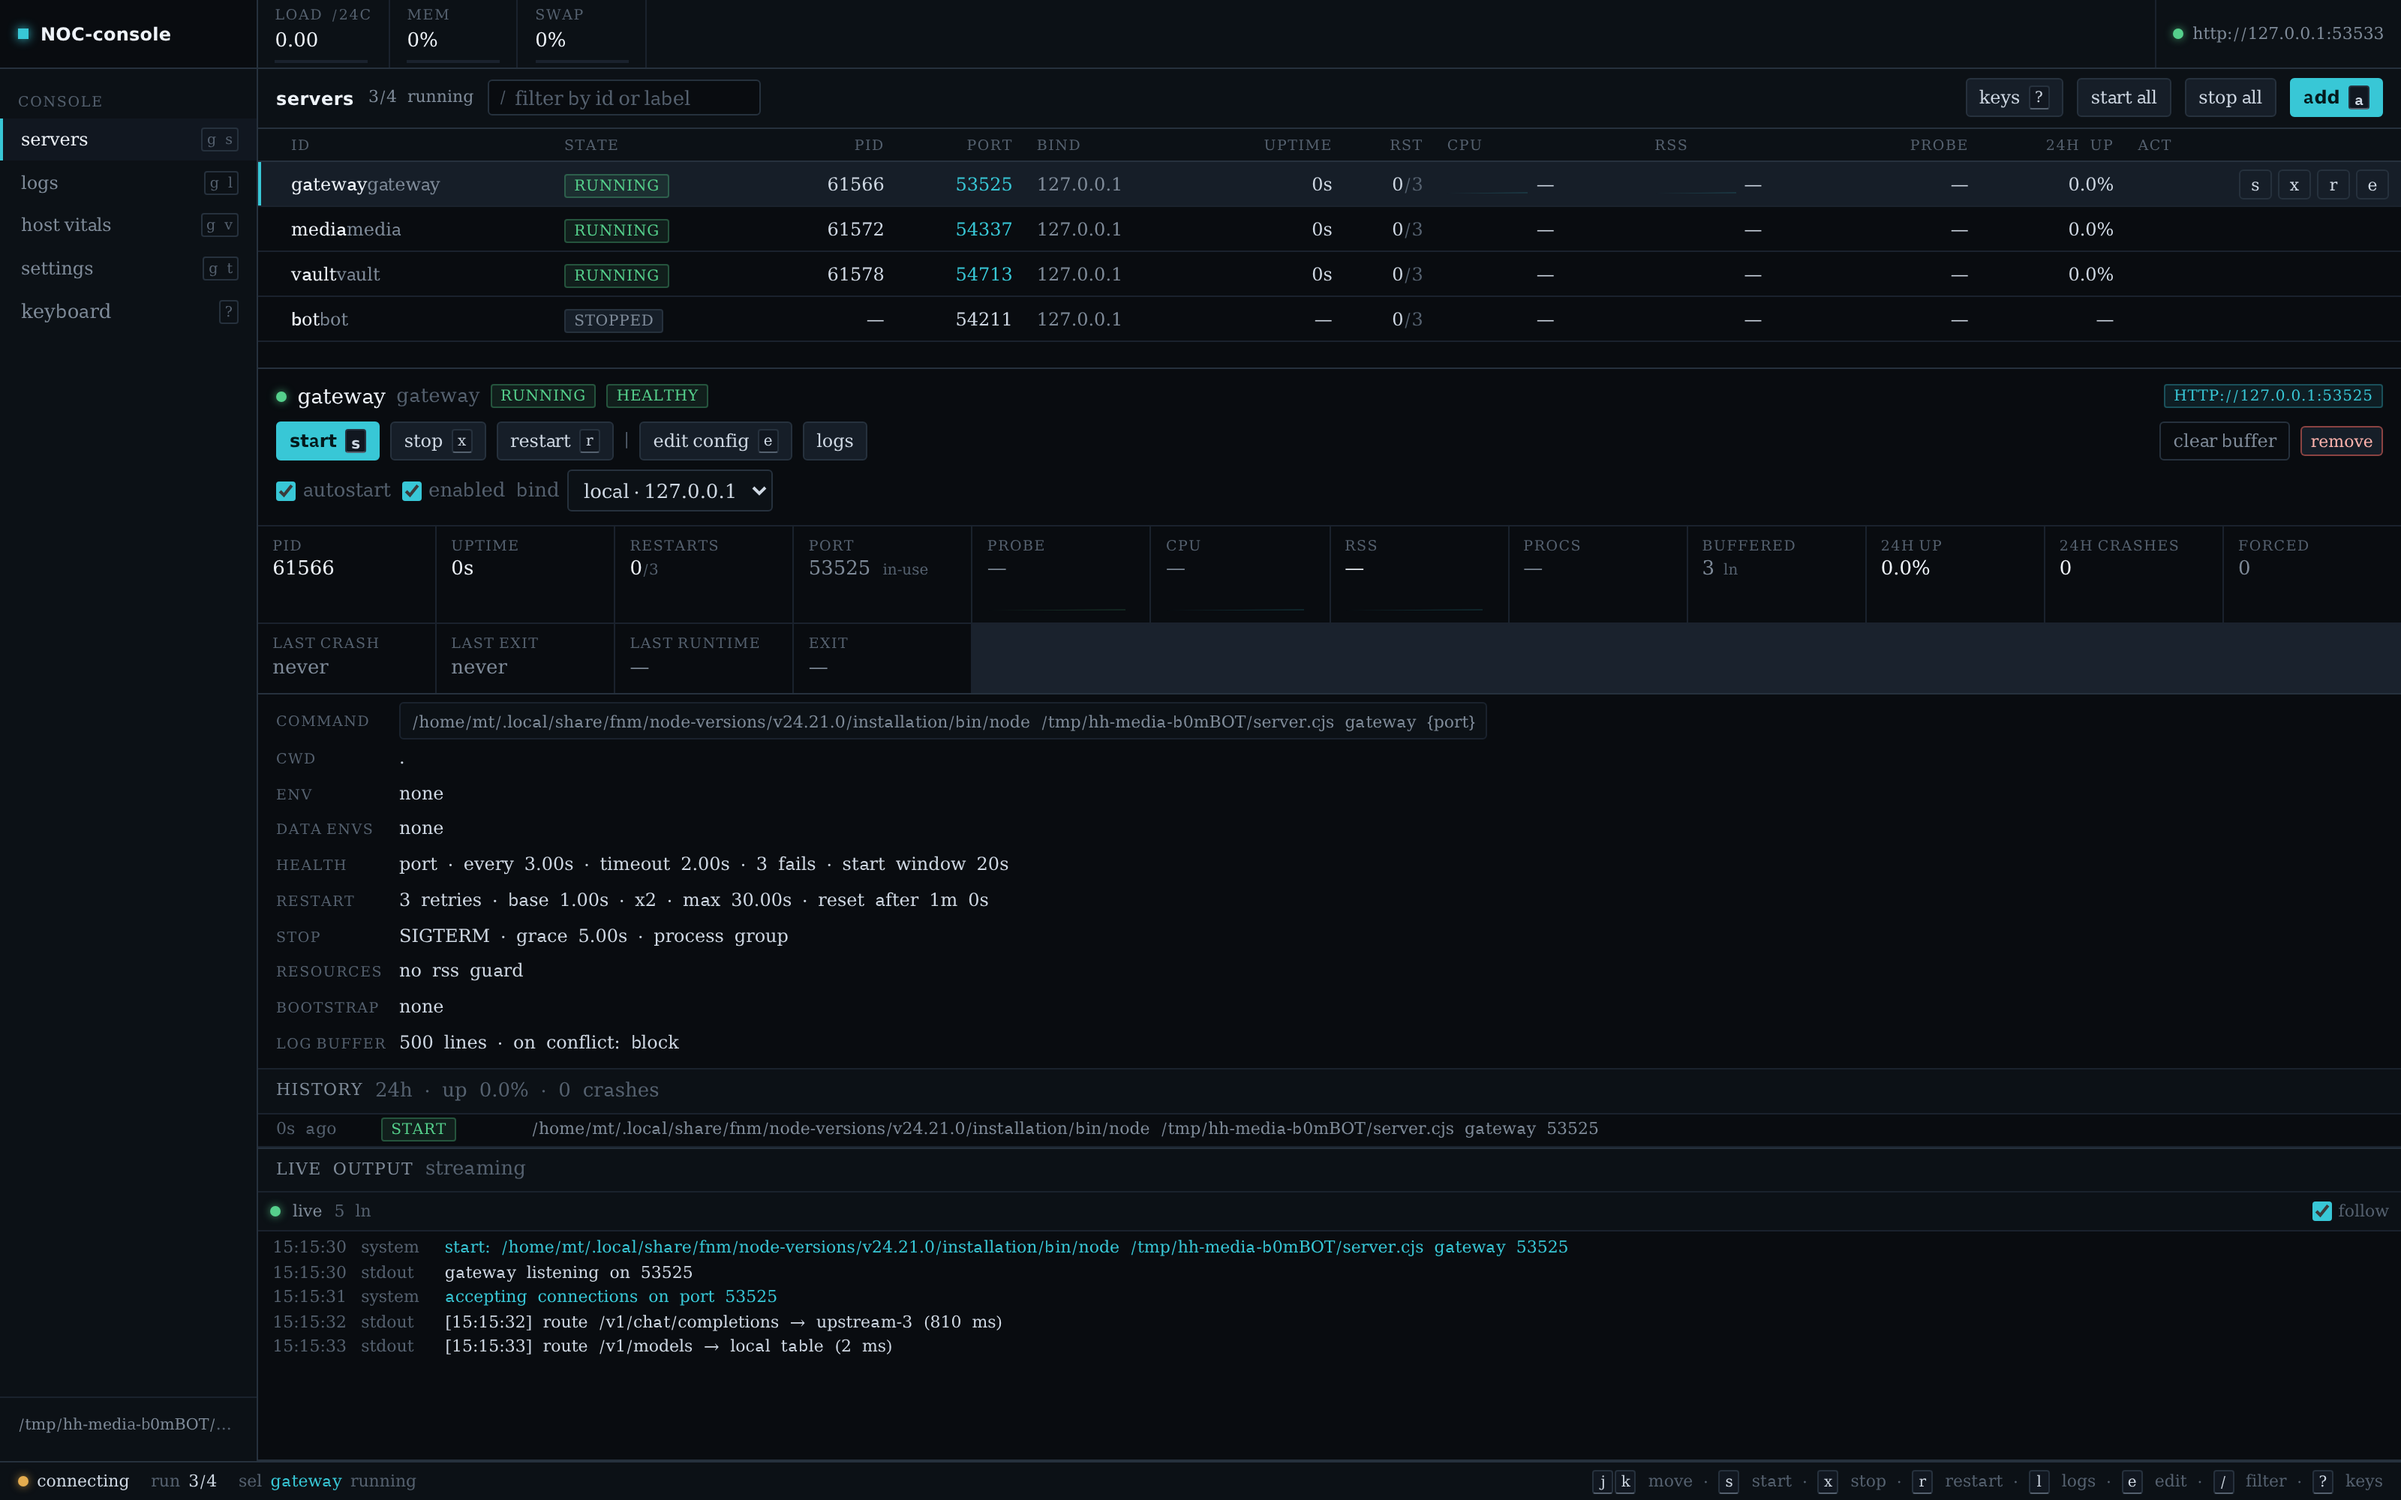
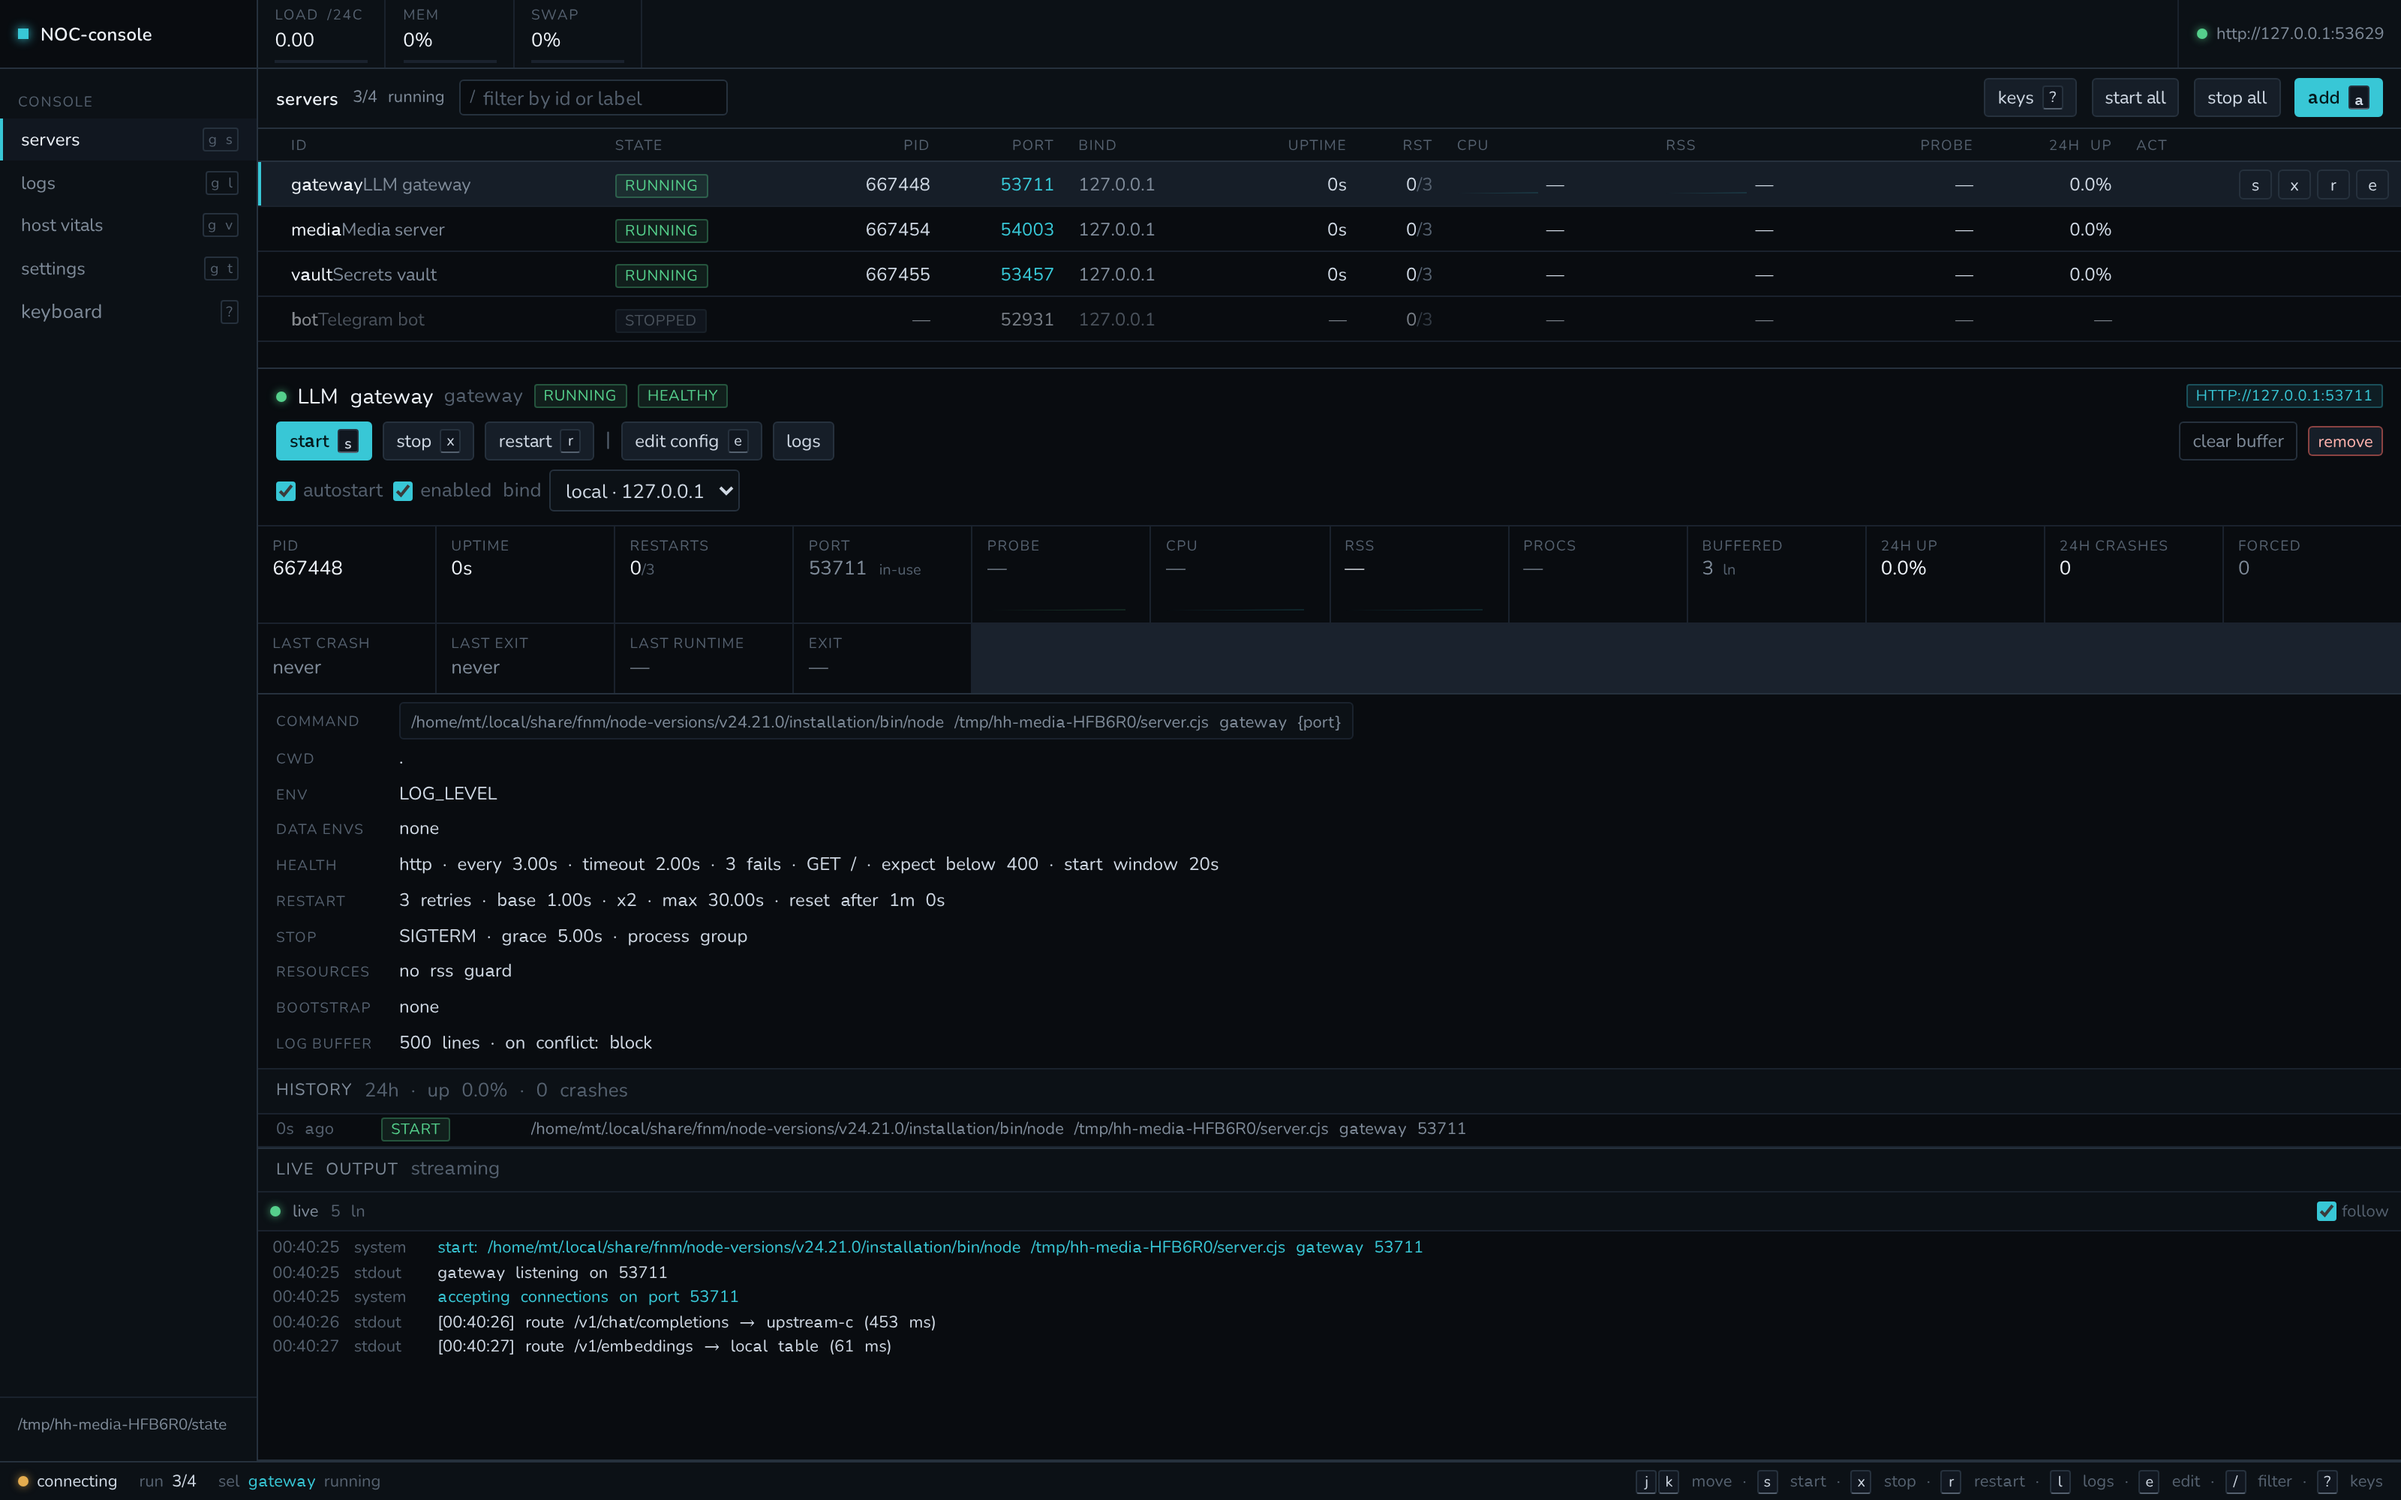
chore(media): a demo stack that reads like one, and a panel that names itself
The capture fixture gave every entry the same label as its id and the same mixed
log lines, so each card showed its name twice and three servers said the same
thing. It is a small home stack now — LLM gateway, media server, secrets vault,
and a disabled Telegram bot — each with its own voice in the log pane and a label
that says what the entry is, so the id plus label pair reads as a pair.

The default panel label was still "Stock UI", a leftover from when the panel was
one of several UIs. A fresh install calls itself home-hosted, and the settings
form test takes the label from the form instead of copying the default into a
fixture, so the next change to it cannot break that test again.

noc-console drift, found by driving it against the current panel: its two
on-port-conflict selects offered only block and warn, so follow and reclaim
rendered blank and touching the field would have changed the policy silently.

diff --git a/uis/stock/test/settings-form.test.ts b/uis/stock/test/settings-form.test.ts
@@ -63,9 +63,13 @@ describe('settings form versus the live config', () => {
    */
   it('shows the mismatch an un-hydrated form would offer to revert', () => {
     const form = createSettingsForm()
+    // Only the auth flag is under test, so the view's label starts from the form's own
+    // default instead of a copy of it that drifts whenever that default changes.
+    const view = controlView(true)
+    view.label = form.control.label
 
-    expect(countLeaves(controlPatch(controlView(true), form) as Record<string, unknown>)).toBe(1)
-    expect(controlPatch(controlView(true), form)).toEqual({ auth: { enabled: false } })
+    expect(countLeaves(controlPatch(view, form) as Record<string, unknown>)).toBe(1)
+    expect(controlPatch(view, form)).toEqual({ auth: { enabled: false } })
   })
 
   it('has nothing pending once the frame has filled the form', () => {

diff --git a/uis/stock/src/components/settings/settingsForm.ts b/uis/stock/src/components/settings/settingsForm.ts
@@ -133,7 +133,7 @@ export function cloneHealth(health: HealthConfig): HealthConfig {
 /** Schema defaults, used only until the first SSE frame fills the form in. */
 export function createSettingsForm(): SettingsForm {
   return {
-    control: { label: 'Stock UI', port: 3999, host: 'local', openBrowser: false, tlsEnabled: false },
+    control: { label: 'home-hosted', port: 3999, host: 'local', openBrowser: false, tlsEnabled: false },
     auth: { enabled: false, sessionTtlMs: 604_800_000, cookieSecure: 'auto', trustProxy: false, maxLoginAttempts: 5, lockoutMs: 60_000 },
     defaults: {
       enabled: true,

diff --git a/uis/stock/src/App.vue b/uis/stock/src/App.vue
@@ -29,7 +29,7 @@ const running = computed(() => servers.value.filter(server => server.status === 
 const panelUrl = computed(() => control.control.value?.url ?? '—')
 const host = computed(() => control.host.value)
 /** The panel's own name, from its config; a custom UI is free to ignore it. */
-const panelLabel = computed(() => control.control.value?.label ?? 'Stock UI')
+const panelLabel = computed(() => control.control.value?.label ?? 'home-hosted')
 
 // A dropped session (or a 401 from any call) must land on the login view.
 watch([authRequired, authenticated], ([required, ok]) => {

diff --git a/src/shared/contracts.ts b/src/shared/contracts.ts
@@ -200,7 +200,7 @@ export type BackupsConfig = typeof backupsSchema.infer
 
 export const controlSchema = type({
   /** What the panel calls itself; the stock UI shows it in the sidebar. */
-  label: '1 <= string <= 60 = "Stock UI"',
+  label: '1 <= string <= 60 = "home-hosted"',
   port: '1 <= number.integer <= 65535 = 3999',
   /** Where the control panel itself listens; keep it `local` unless you mean it. */
   host: bindSchema.default(() => 'local' as const),

diff --git a/uis/noc-console/src/views/SettingsView.vue b/uis/noc-console/src/views/SettingsView.vue
@@ -995,6 +995,8 @@ async function revertUi(): Promise<void> {
                 <select v-model="form.defaults.onPortConflict">
                   <option value="block">block</option>
                   <option value="warn">warn</option>
+                  <option value="follow">follow</option>
+                  <option value="reclaim">reclaim</option>
                 </select>
               </label>
               <label class="field">

diff --git a/uis/noc-console/src/views/ServerConfigView.vue b/uis/noc-console/src/views/ServerConfigView.vue
@@ -368,6 +368,8 @@ async function remove(): Promise<void> {
               <select v-model="form.onPortConflict">
                 <option value="block">block</option>
                 <option value="warn">warn</option>
+                <option value="follow">follow</option>
+                <option value="reclaim">reclaim</option>
               </select>
             </label>
             <label class="field">
